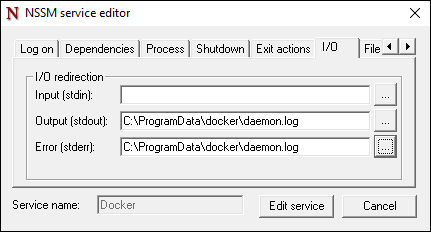
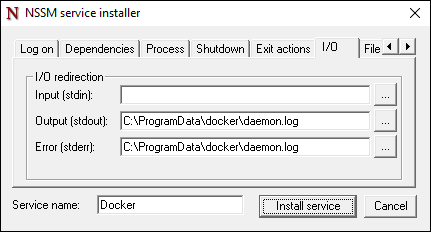
Updates to docker doc

diff --git a/virtualization/windowscontainers/user_guide/docker_windows.md b/virtualization/windowscontainers/user_guide/docker_windows.md
@@ -1,6 +1,6 @@
 ## Docker and Windows
 
-Docker is an open-source container deployment and management solution which works with both Linux and Windows containers. The Docker daemon and command line interface are used to create, manage, and delete containers. Docker enables storing container images in a public registry (Docker Hub) and private registries (Docker Trusted Registries). Docker additional provides container host clustering capabilities with Docker Swarm and deployment automaton with Docker Compose.
+Docker is an open-source container deployment and management platform that works with both Linux and Windows containers. The Docker daemon and command line interface are used to create, manage, and delete containers. Docker enables storing container images in a public registry (Docker Hub) and private registries (Docker Trusted Registries). Docker additional provides container host clustering capabilities with Docker Swarm and deployment automaton with Docker Compose.
 
 For more information on Docker and the Docker toolset visit [Docker.com](https://www.docker.com/).
 
@@ -40,18 +40,25 @@ Extract the files, and copy **nssm-2.24\win64\nssm.exe** into the **c:\windows\s
 
 Open a command prompt and type **nssm install**.
 
-Enter the following data into the corresponding field in nssm.
+Enter the following data into the corresponding fields in the NSSM service installer.
+
+Application Tab:
 
 - **Path:** C:\Windows\System32\cmd.exe
 - **Startup Directory:** C:\Windows\System32
 - **Arguments:** /s /c C:\ProgramData\docker\runDockerDaemon.cmd
+- **Service Name** - Docker
 
 ![](media/nssm1.png)
+
+Details Tab:
 
 - **Display name:** Docker
 - **Description:** The Docker Daemon provides management capabilities of containers for docker clients
 
 ![](media/nssm2.png)
+
+IO Tab:
 
 - **Output (stdout):** C:\ProgramData\docker\daemon.log
 - **Error (stderr):** C:\ProgramData\docker\daemon.log
@@ -72,4 +79,3 @@ If following this guide for creating a Windows service from docke.exe, the follo
 PS C:\ sc.exe delete Docker
 [SC] DeleteService SUCESS
 ```
-## Docker Daemon Startup Options
